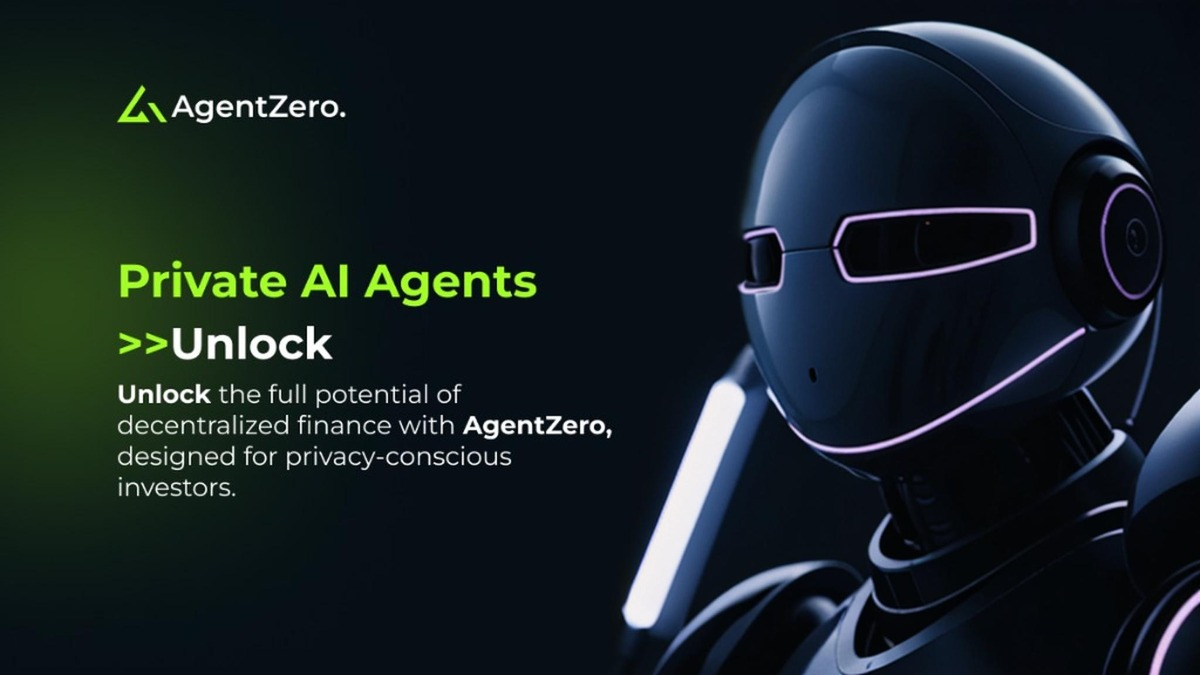
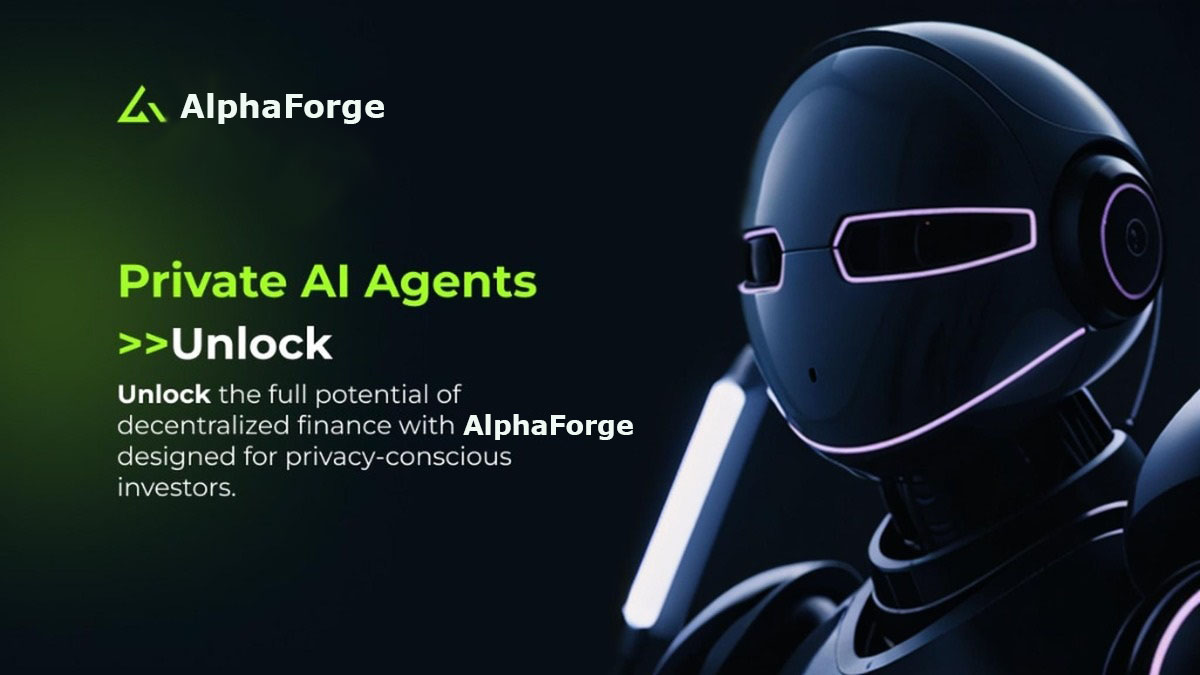
update button

Changed region(s): [[0.1233, 0.1244, 0.3392, 0.1867], [0.37, 0.6222, 0.5242, 0.6533]]

diff --git a/assets/index-BezwjNV4.js b/assets/index-BezwjNV4.js
@@ -9455,12 +9455,12 @@ var cj = Z3.exports,
       children: [
         k.jsx("img", {
           src: "/agent.png",
-          alt: "AgentZero Logo",
+          alt: "AlphaForge Logo",
           className: "w-8 h-8 object-contain",
         }),
         k.jsx("span", {
           className: "text-white font-bold text-xl",
-          children: "AgentZero",
+          children: "AlphaForge",
         }),
       ],
     }),
@@ -9779,7 +9779,7 @@ const Dj = () => {
             "absolute inset-4 rounded-full bg-[#141416] border border-[#A3FF23]/20 flex items-center justify-center hero-logo-circle",
           children: k.jsx("img", {
             src: "/agent.png",
-            alt: "AgentZero Logo",
+            alt: "AlphaForge Logo",
             className:
               "w-16 h-16 object-contain group-hover:scale-110 transition-transform duration-300",
           }),
@@ -9798,7 +9798,7 @@ const Dj = () => {
           className:
             "text-3xl sm:text-4xl lg:text-5xl font-bold text-white mb-4",
           children: k.jsx(Lj, {
-            text: "AgentZero: Your Private AI Wealth Manager",
+            text: "AlphaForge: Your Private AI Wealth Manager",
             onComplete: () => e(!0),
           }),
         }),
@@ -9809,13 +9809,13 @@ const Dj = () => {
               k.jsx("p", {
                 className: "text-lg text-gray-300 mb-6 max-w-2xl mx-auto",
                 children:
-                  "Unlock the full potential of decentralized finance with AgentZero, designed for privacy-conscious investors.",
+                  "Unlock the full potential of decentralized finance with AlphaForge, designed for privacy-conscious investors.",
               }),
               k.jsxs("div", {
                 className: "flex flex-col items-center gap-4",
                 children: [
                   k.jsxs("a", {
-                    href: "https://agent-zero-doc1.vercel.app/",
+                    href: "https://alpha-forge-doc.vercel.app/",
                     target: "_blank",
                     rel: "noopener noreferrer",
                     className:
@@ -34255,7 +34255,7 @@ const ky = z5({
               k.jsx("p", {
                 className: "text-gray-300 max-w-2xl mx-auto",
                 children:
-                  "Get started with AgentZero in just a few simple steps and experience the future of automated wealth management.",
+                  "Get started with AlphaForge in just a few simple steps and experience the future of automated wealth management.",
               }),
             ],
           }),
@@ -34318,7 +34318,7 @@ const ky = z5({
   AG = () =>
     k.jsx(uM, {
       icon: cd,
-      title: "AgentZero Token (AGZRO)",
+      title: "AlphaForge Token (AGZRO)",
       className: "mb-8",
       children: k.jsxs("div", {
         className: "space-y-4 text-gray-300",
@@ -34326,7 +34326,7 @@ const ky = z5({
           k.jsx("p", {
             className: "leading-relaxed",
             children:
-              "The AgentZero ERC20 Token is the native cryptocurrency of the AgentZero ecosystem. Built on the Ethereum blockchain following the ERC20 standard, it ensures compatibility with wallets, decentralized exchanges (DEXs), and other Ethereum-based platforms.",
+              "The AlphaForge ERC20 Token is the native cryptocurrency of the AlphaForge ecosystem. Built on the Ethereum blockchain following the ERC20 standard, it ensures compatibility with wallets, decentralized exchanges (DEXs), and other Ethereum-based platforms.",
           }),
           k.jsx("p", {
             className: "leading-relaxed",
@@ -34870,7 +34870,7 @@ const ky = z5({
     });
   },
   jG =
-    "Welcome to AgentZero, private AI-driven wealth management platform designed for privacy-conscious investors. Take control of your financial future with customized AI agents that work for you.",
+    "Welcome to AlphaForge, private AI-driven wealth management platform designed for privacy-conscious investors. Take control of your financial future with customized AI agents that work for you.",
   RG = () => {
     const [t, e] = K.useState([]),
       [r, n] = K.useState(!1),
@@ -35126,7 +35126,7 @@ const ky = z5({
     },
     {
       symbol: "AGZRO",
-      name: "AgentZero",
+      name: "AlphaForge",
       balance: "1000",
       value: "$1,000",
       change: "+3.2%",
@@ -60671,7 +60671,7 @@ const Tye = [
         className: "bg-[#A3FF23]/10 p-6 rounded-full",
         children: k.jsx("img", {
           src: "/agent.png",
-          alt: "AgentZero Logo",
+          alt: "AlphaForge Logo",
           className: "w-12 h-12 object-contain",
         }),
       }),
@@ -60712,7 +60712,7 @@ const Tye = [
                 children: [Math.round(e), "%"],
               }),
               k.jsx(Bye, {
-                text: "Let Agents handle your portfolio",
+                text: "Let AlphaForge handle your portfolio",
                 speed: 50,
               }),
             ],

diff --git a/index.html b/index.html
@@ -4,7 +4,7 @@
     <meta charset="UTF-8" />
     <link rel="icon" type="image/png" href="/agent.png" />
     <meta name="viewport" content="width=device-width, initial-scale=1.0" />
-    <title>AgentZero</title>
+    <title>AlphaForge</title>
     <script type="module" crossorigin src="/assets/index-BezwjNV4.js"></script>
     <link rel="stylesheet" crossorigin href="/assets/index-DLalAdTh.css" />
   </head>
